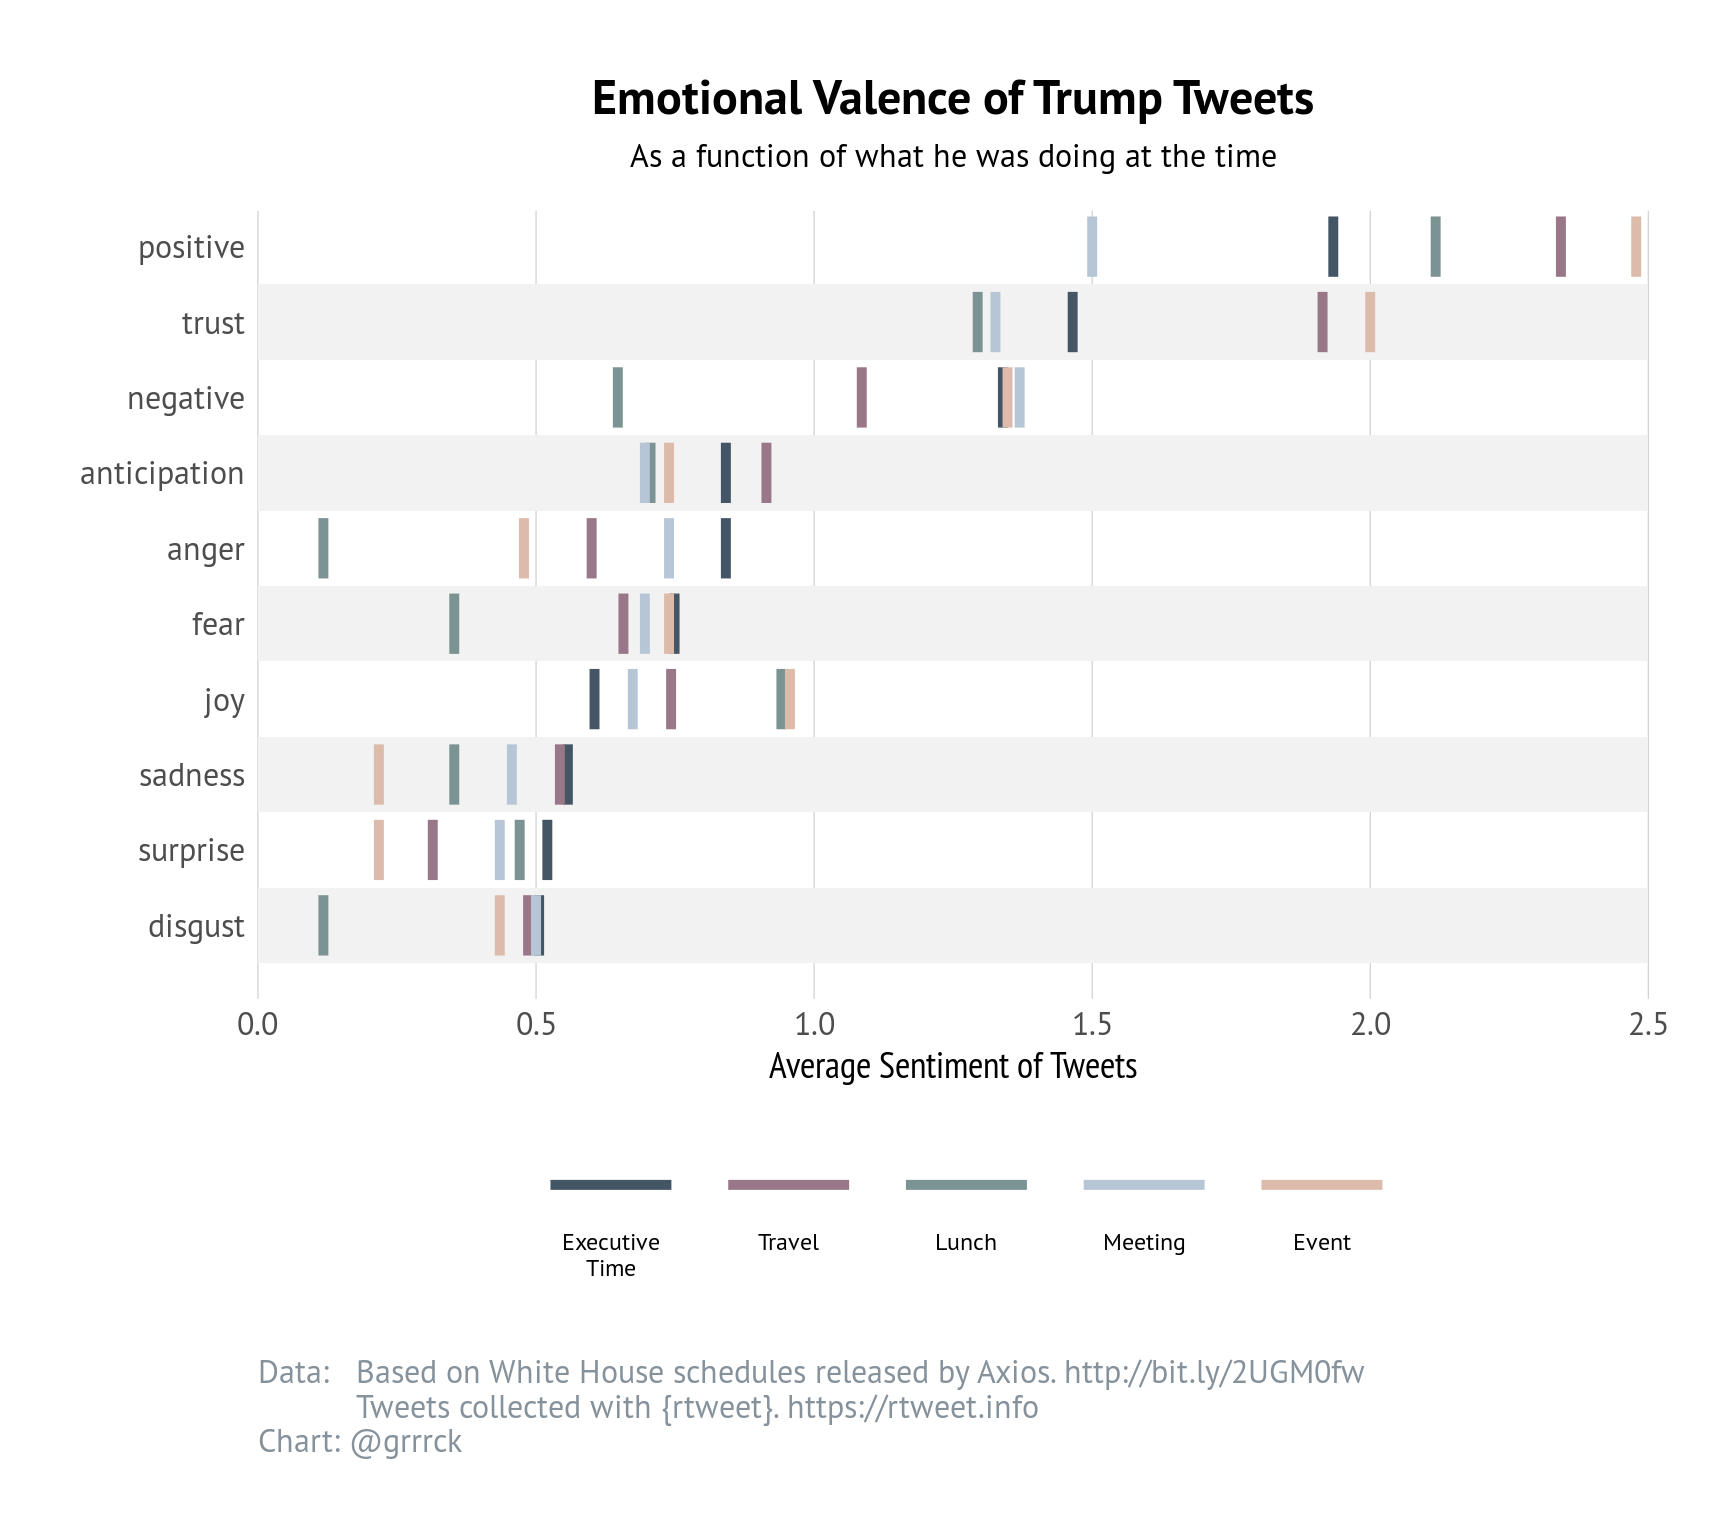
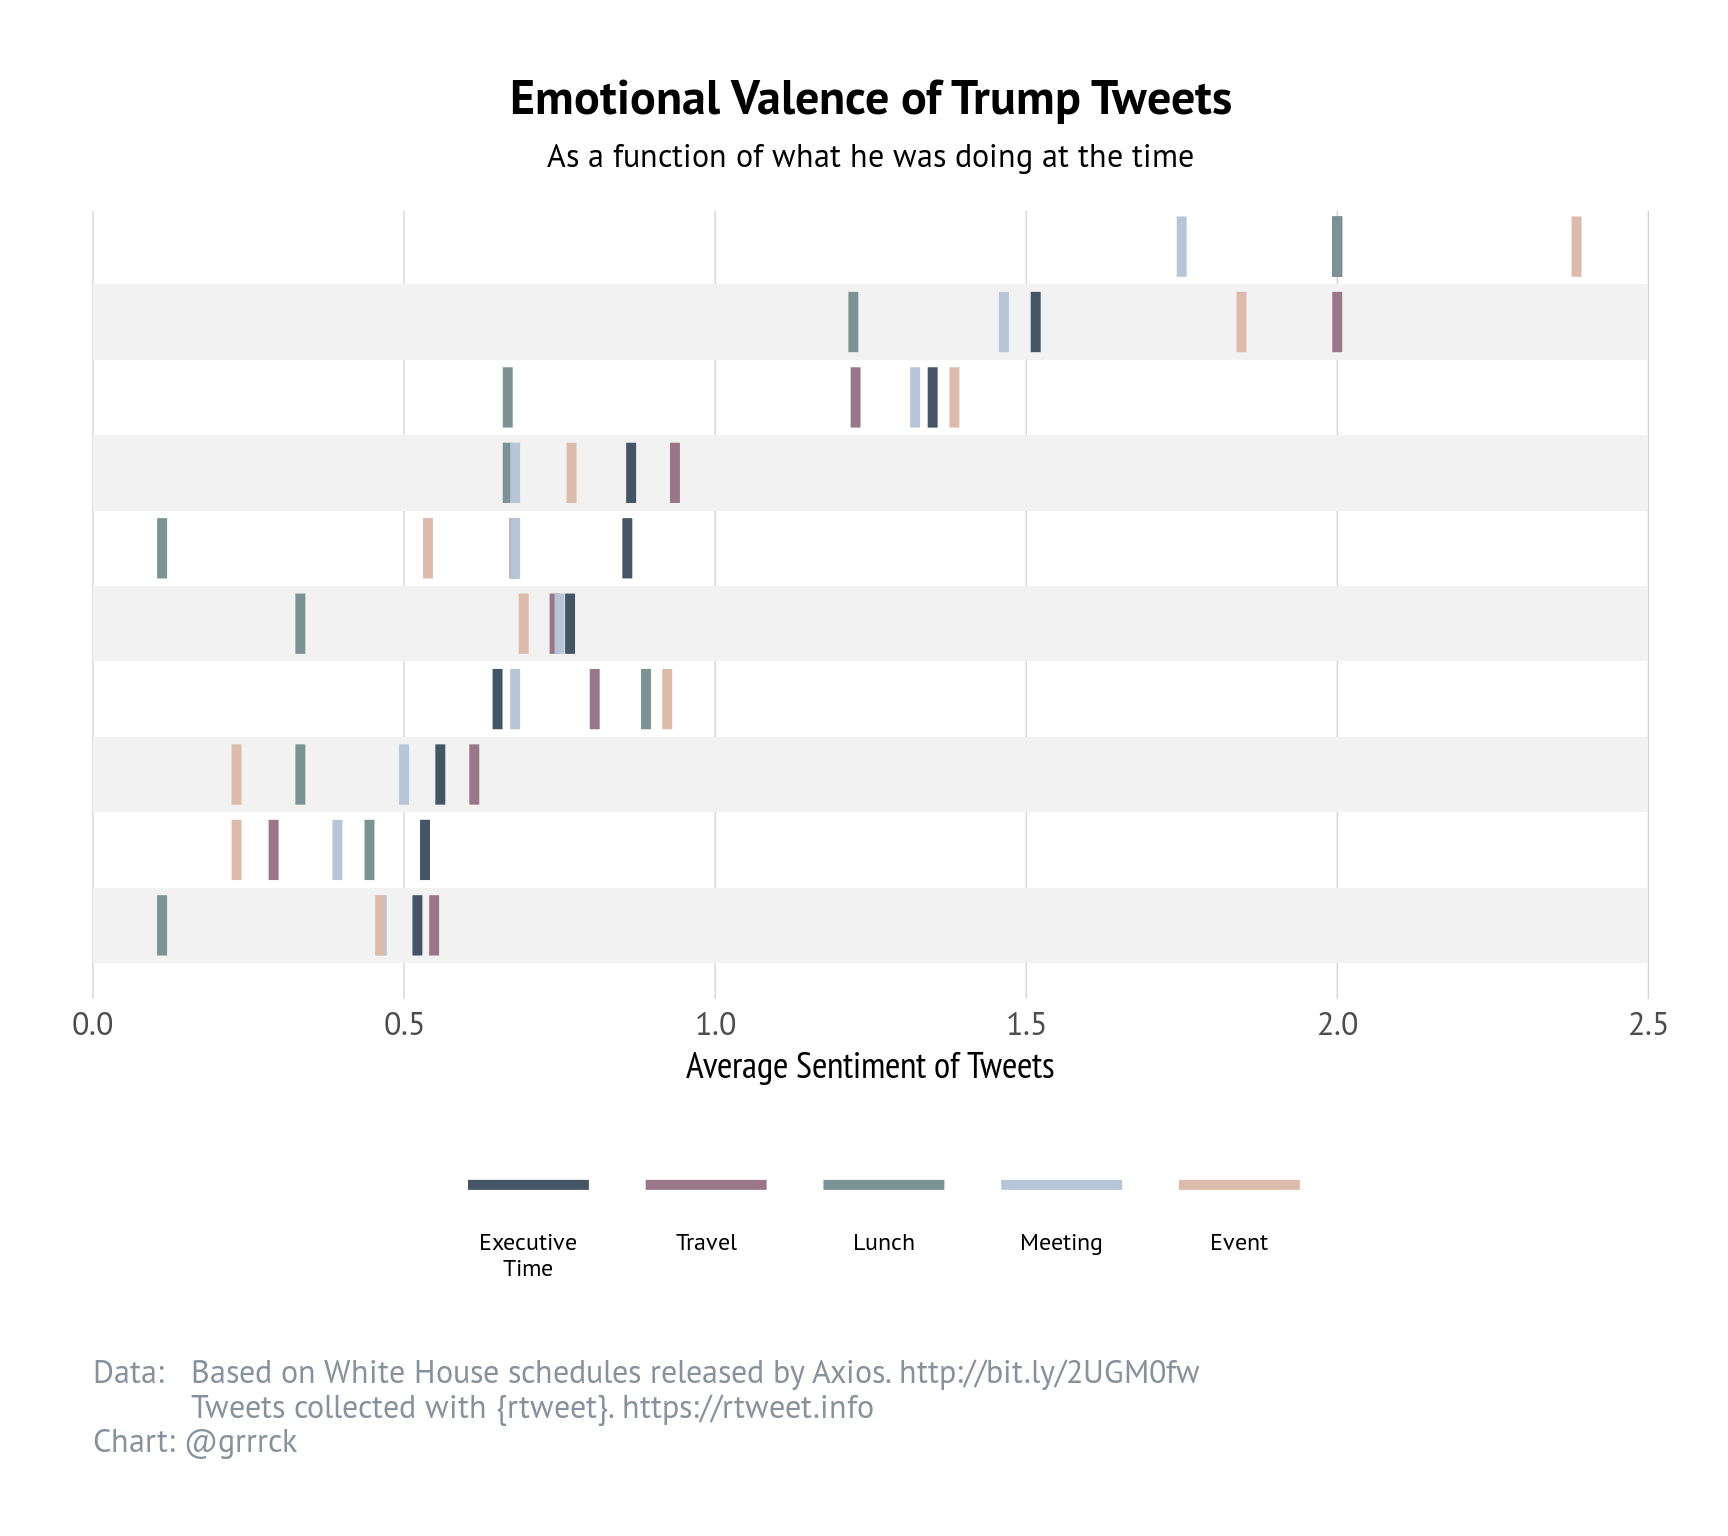
Add two more plots

diff --git a/content/blog/2019/2019-02-04-executive-tweeting-time.html b/content/blog/2019/2019-02-04-executive-tweeting-time.html
@@ -34,15 +34,13 @@ editor_options:
 </p>
 </div>
 <p></a></p>
-<pre><code>## # A tibble: 6 x 3
-##   created_at          time_inc            text                             
-##   &lt;dttm&gt;              &lt;dttm&gt;              &lt;chr&gt;                            
-## 1 2019-02-05 10:29:52 2019-02-05 10:25:00 I see Schumer is already critici…
-## 2 2019-02-05 09:10:03 2019-02-05 09:10:00 Tremendous numbers of people are…
-## 3 2019-02-04 15:13:35 2019-02-04 15:10:00 I am pleased to announce that Da…
-## 4 2019-02-03 17:03:11 2019-02-03 17:00:00 With Caravans marching through M…
-## 5 2019-02-03 16:14:39 2019-02-03 16:10:00 Everyone is asking how Tiger pla…
-## 6 2019-02-02 23:37:02 2019-02-02 23:35:00 I will be interviewed Sunday mor…</code></pre>
+<a href="/blog/2019/2019-02-04-executive-tweeting-time_files/figure-html/plot-tweet-counts-by-activity-1.png" data-featherlight="image">
+<div class="figure">
+<img src="/blog/2019/2019-02-04-executive-tweeting-time_files/figure-html/plot-tweet-counts-by-activity-1.png" alt="">
+<p class="caption">
+</p>
+</div>
+<p></a></p>
 <a href="/blog/2019/2019-02-04-executive-tweeting-time_files/figure-html/djt-tweets-timeline-1.png" data-featherlight="image">
 <div class="figure">
 <img src="/blog/2019/2019-02-04-executive-tweeting-time_files/figure-html/djt-tweets-timeline-1.png" alt="">
@@ -71,3 +69,4 @@ editor_options:
 </p>
 </div>
 <p></a></p>
+<p><img src="/blog/2019/2019-02-04-executive-tweeting-time_files/figure-html/plot-emotion-1.png" width="864" /></p>
